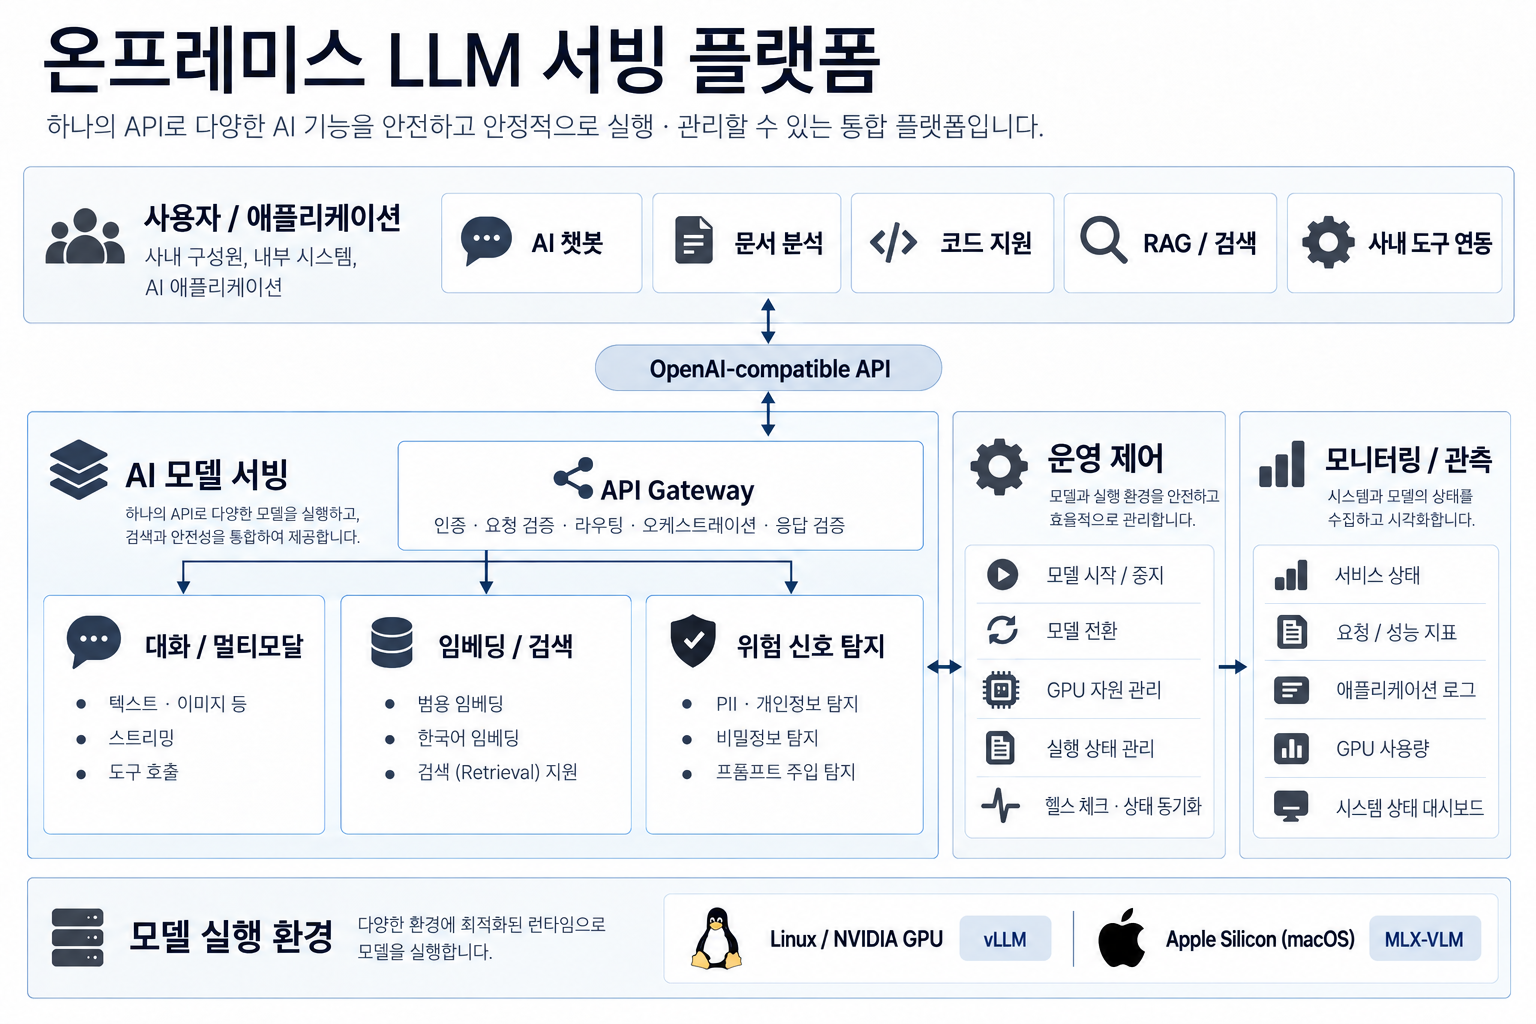
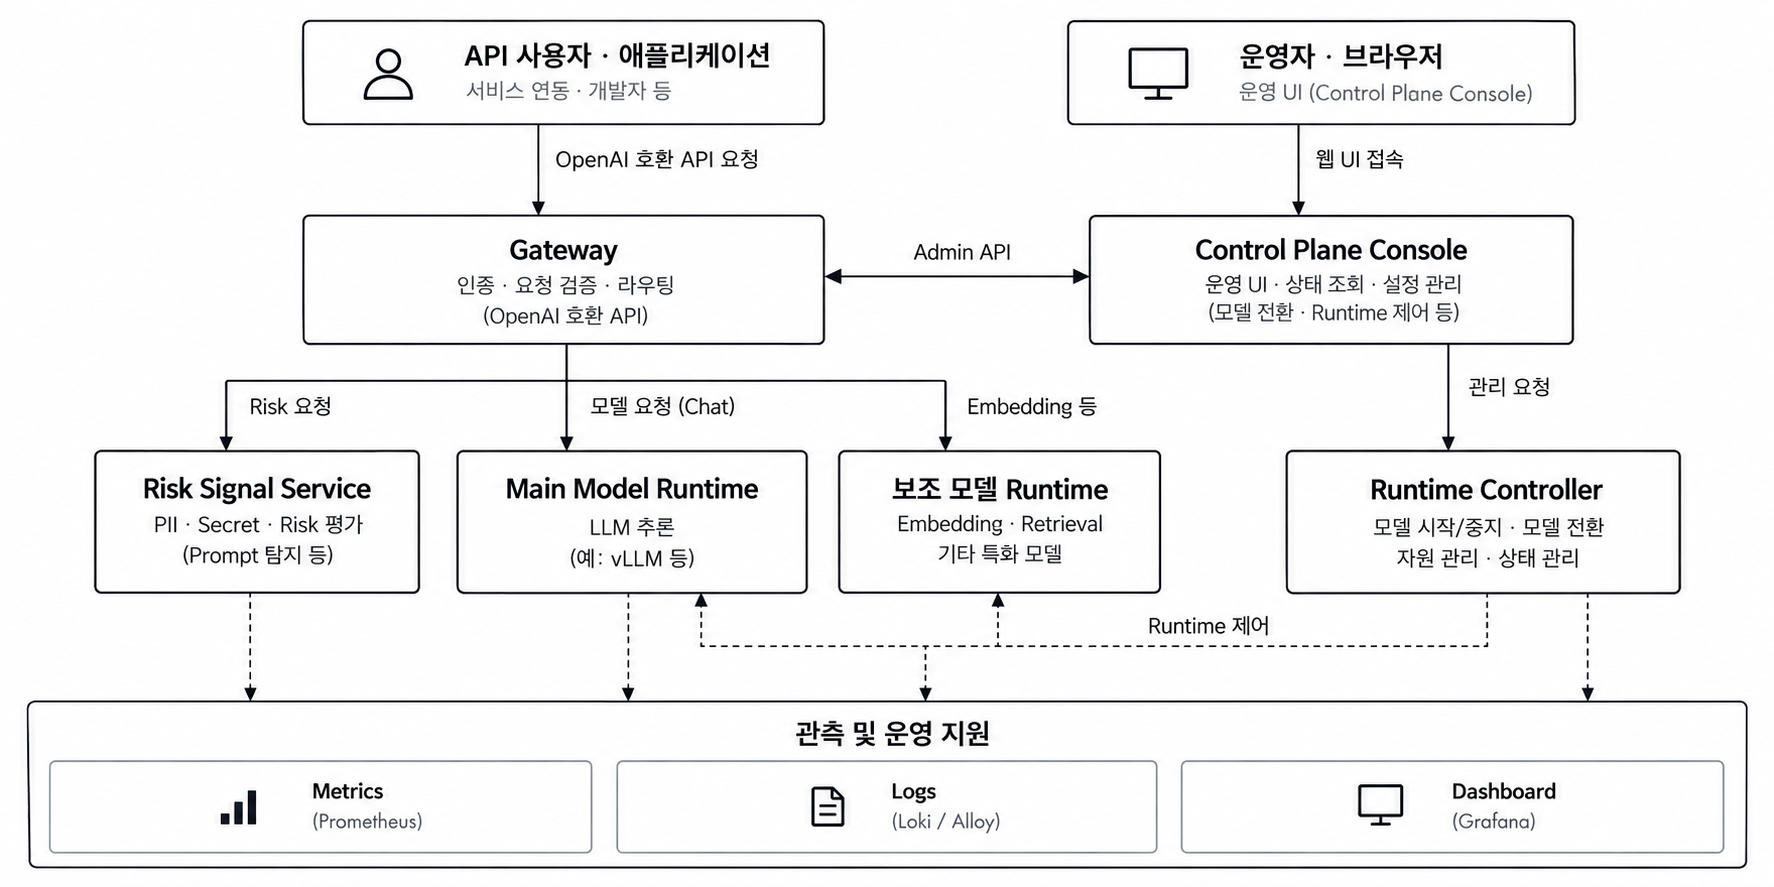
docs: 시스템 구성도에 Gateway·Console·Runtime 관계를 표시한다

Changed region(s): [[0.0, 0.0, 1.0, 1.0]]

diff --git a/docs/03_system_components.md b/docs/03_system_components.md
@@ -8,7 +8,7 @@ AI Model Serving Platform은 외부 API를 처리하는 **Gateway**, runtime과 
 
 ![AI 모델 서빙 플랫폼 시스템 구성도](../assets/ai_model_serving_system_architecture.png)
 
-> 위 구성도는 주요 요청 경로와 서비스 관계를 나타낸다. 일부 운영 및 관리 컴포넌트는 가독성을 위해 생략되어 있으며, 상세 구성은 아래 컴포넌트별 설명을 참고한다.
+> 위 구성도는 컴포넌트의 논리적 관계를 나타낸다. Console의 관리 요청은 Gateway의 Admin API를 거쳐 Runtime Controller에 전달된다. Retrieval은 Gateway가 Embedding Runtime을 사용해 제공한다. 상세 요청 경로와 책임은 아래 컴포넌트별 설명을 따른다.
 
 ### 상세 컴포넌트 맵
 
